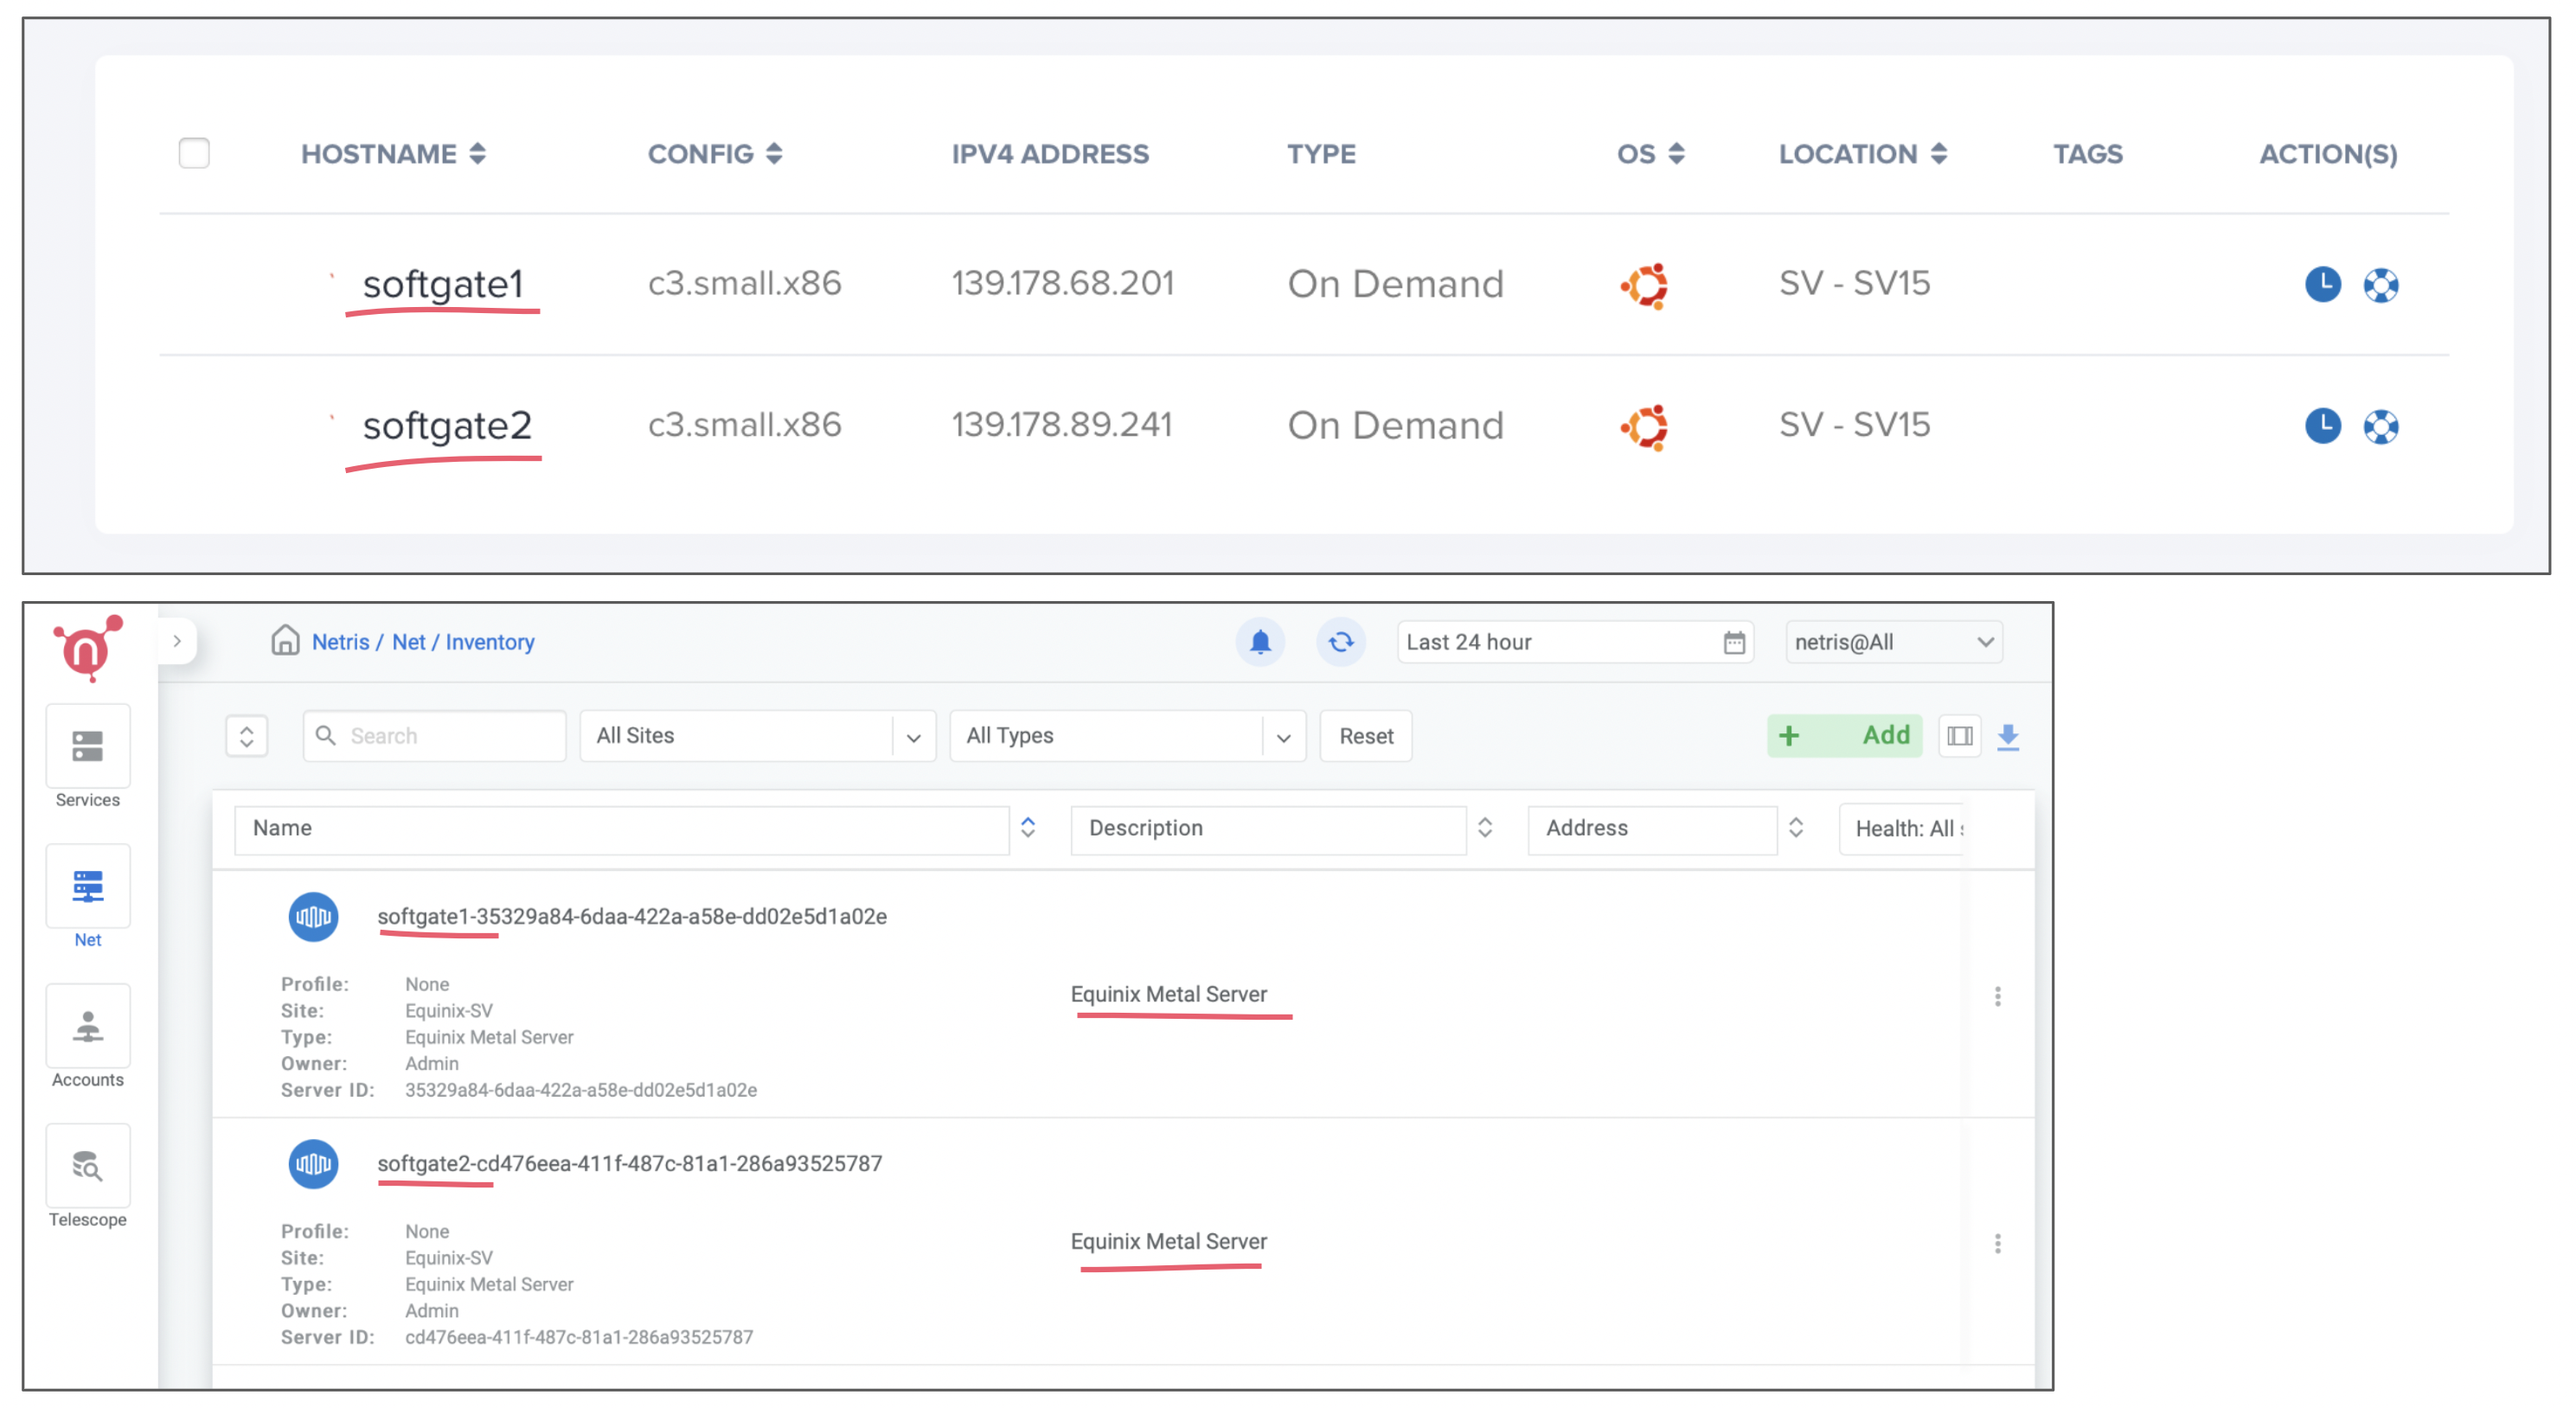
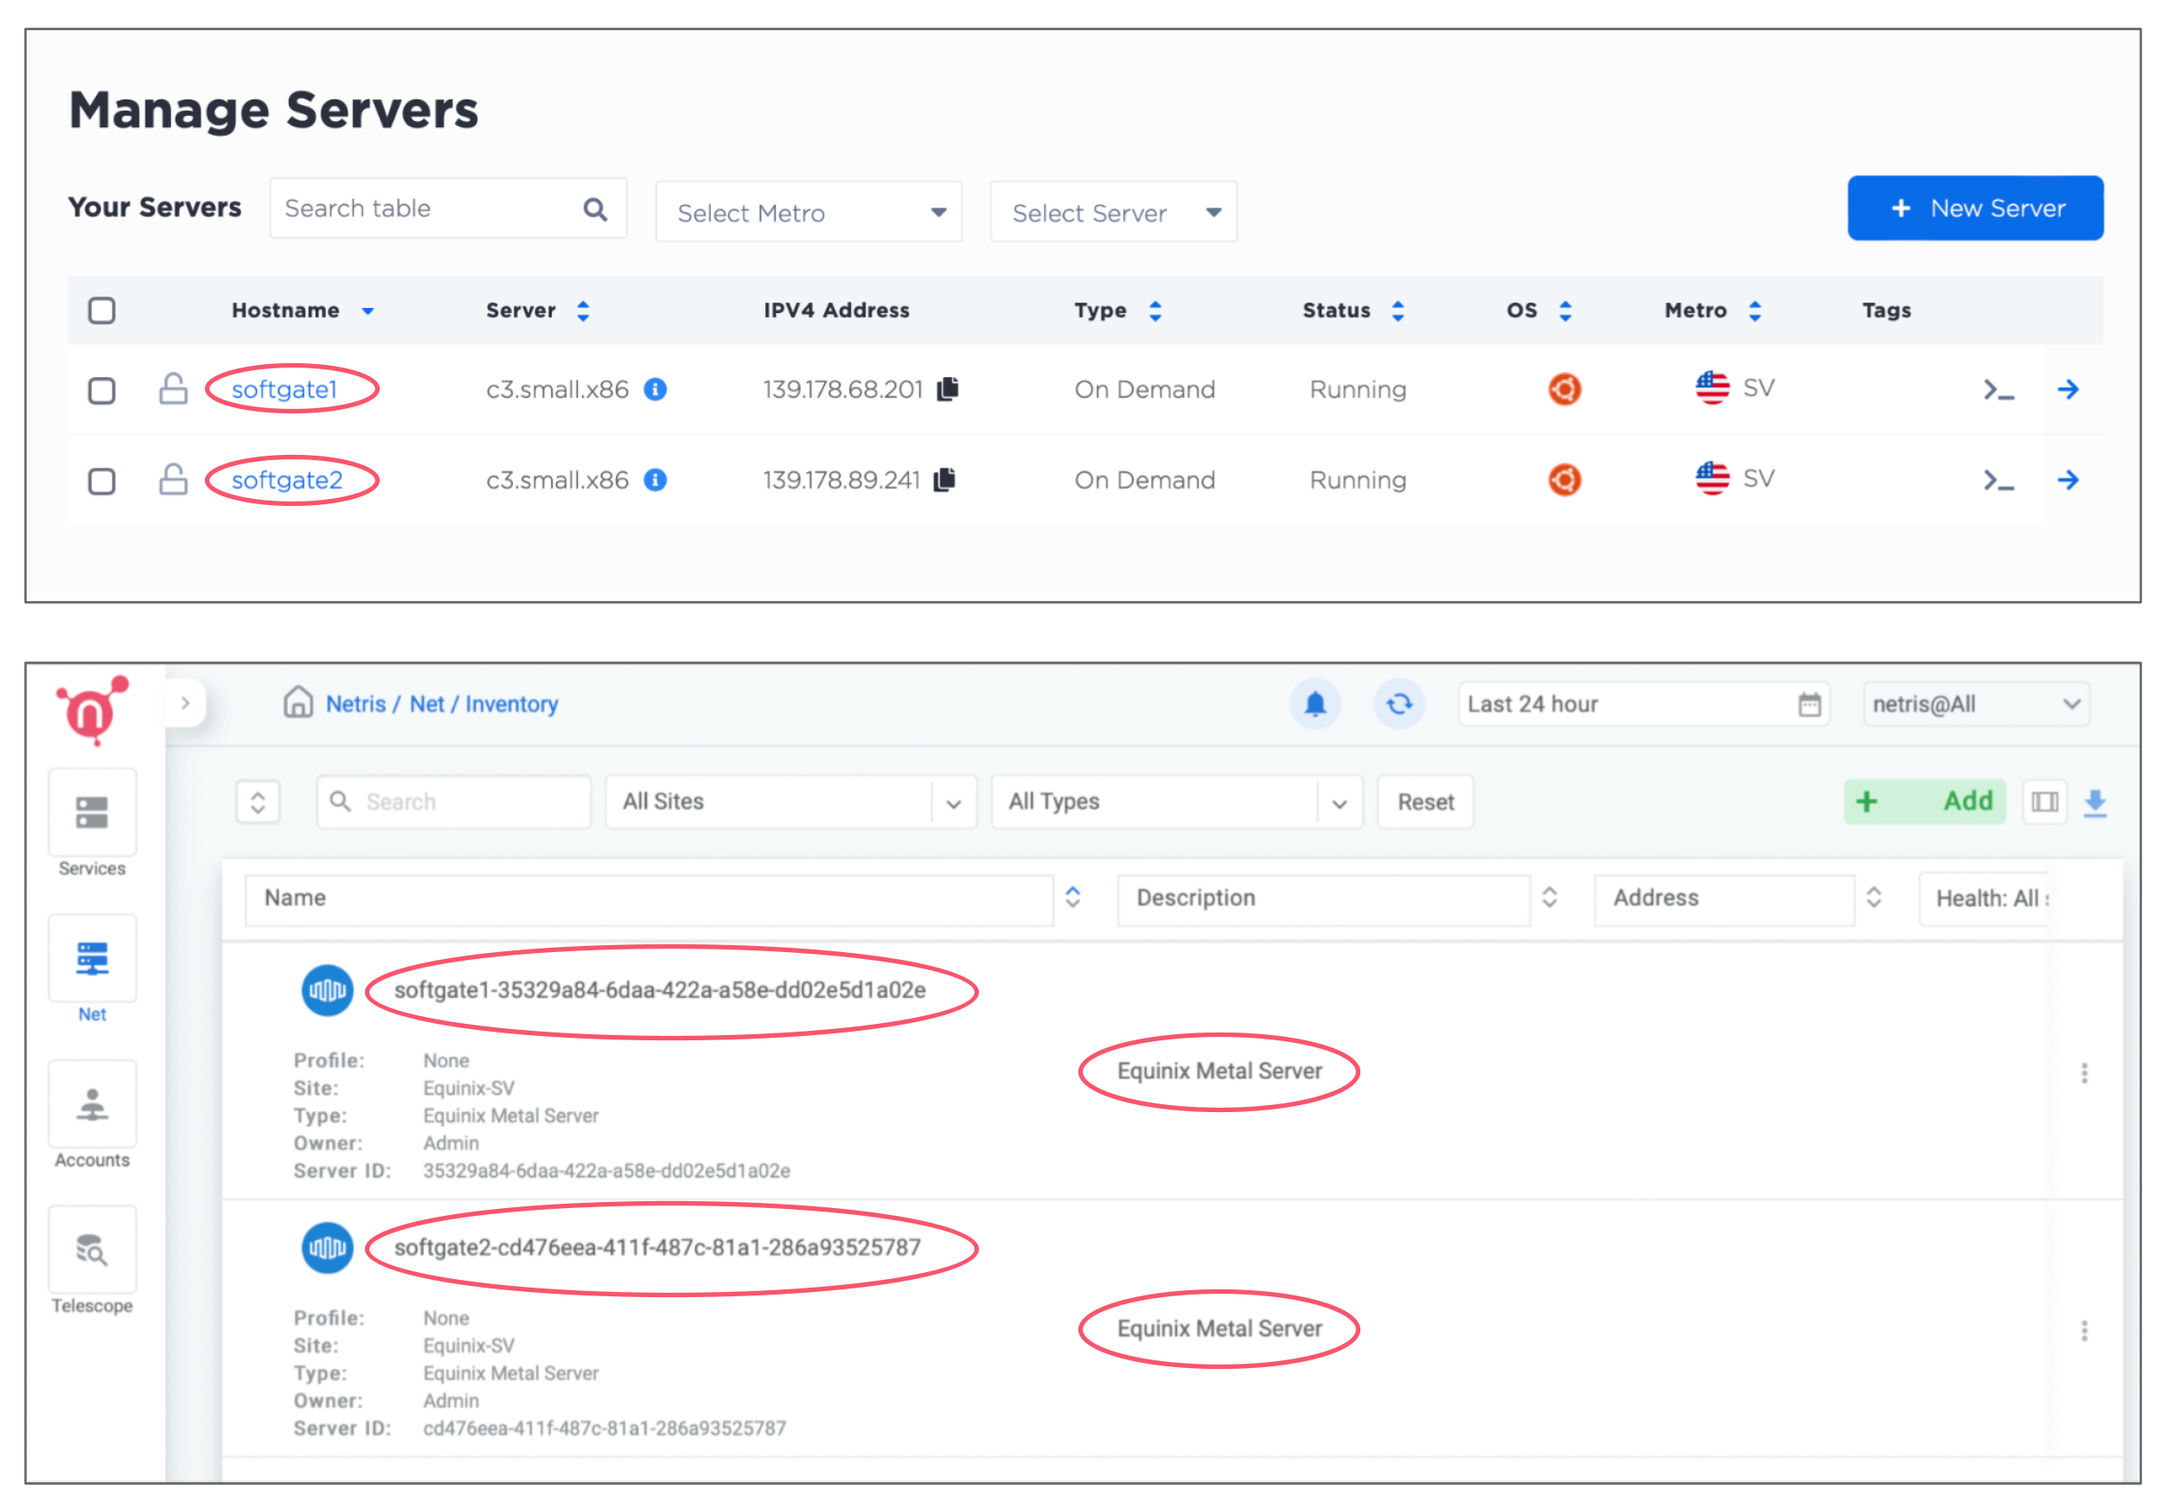
Eqx updates (#211)
* eqx tutorial screenshots update

* minor updates in EQX tutorial

diff --git a/tutorials/equinix-metal-api-integration-enablement.rst b/tutorials/equinix-metal-api-integration-enablement.rst
@@ -26,7 +26,7 @@ You only need to deal with the below 5 fields. Leave the rest to default values 
    * - Equinix Project ID
      - Copy/Paste the Project ID from Equinix Metal portal under Project Settings → General → Project ID.
    * - Equinix Project API key
-     - Create a new Read/Write API key in Equinix Metal portal under Project Settings → Project API keys → + Add New Key. Then copy/paste here.
+     - Create a new Read/Write API key in Equinix Metal portal under Project Settings → API keys → + Add an API Key. Then copy/paste here.
    * - Equinix Location
      - Select your equinix location from the dropdown menu.
 

diff --git a/tutorials/adding-netris-softgate-nodes-in-equinix-metal.rst b/tutorials/adding-netris-softgate-nodes-in-equinix-metal.rst
@@ -11,7 +11,7 @@ Request two servers(c3.small.x86) from Equinix Metal with Ubuntu 22.04 OS and wa
 .. image:: /tutorials/images/softgate-nodes-created-in-equinix.png
     :align: center
 
-2) When Equinix finishes provisioning of the servers, click on each server name, then click tag, and add a tag “netris-softgate”. 
+2) When Equinix finishes provisioning of the servers, click on each server name, then click "Tags", and add a tag “netris-softgate”. 
 
     Tag “netris-softgate” will signal Netris Controller that these two servers are going to be used as Netris SoftGate nodes in this particular site (Project+Location).
 

diff --git a/tutorials/activating-bgp-on-equinix-metal-project.rst b/tutorials/activating-bgp-on-equinix-metal-project.rst
@@ -11,7 +11,7 @@ We need these BGP sessions for moving further. In the next chapters we are going
     :align: center
 
 You only need to activate BGP on the Equinix Metal Project. Netris will handle the rest.
-In the Equinix Metal web console go to IPs & Networks → BGP then click Activate BGP on This Project. (see below screenshots)
+In the Equinix Metal web console go to Networking → BGP then click Activate BGP on This Project. (see below screenshots)
 
 .. image:: /tutorials/images/equinix-metal-activate-bgp.png
     :align: center

diff --git a/tutorials/enable-services-on-equinix-metal-project.rst b/tutorials/enable-services-on-equinix-metal-project.rst
@@ -10,7 +10,7 @@ Both NAT and on-demand Load Balancer services need public IP addresses.
 1) Requesting new Public IP address block
 =========================================
 
-Go to Equinix Metal web console and click on IPs & Networks → IPs (see the screenshot below)
+Go to Equinix Metal web console and click on Networking → IPs (see the screenshot below)
 
 In this example, I’m requesting two IP address blocks, one /30 (4 IPs) for NAT and one /28 (16 IPs) for Load Balancer. 
 
